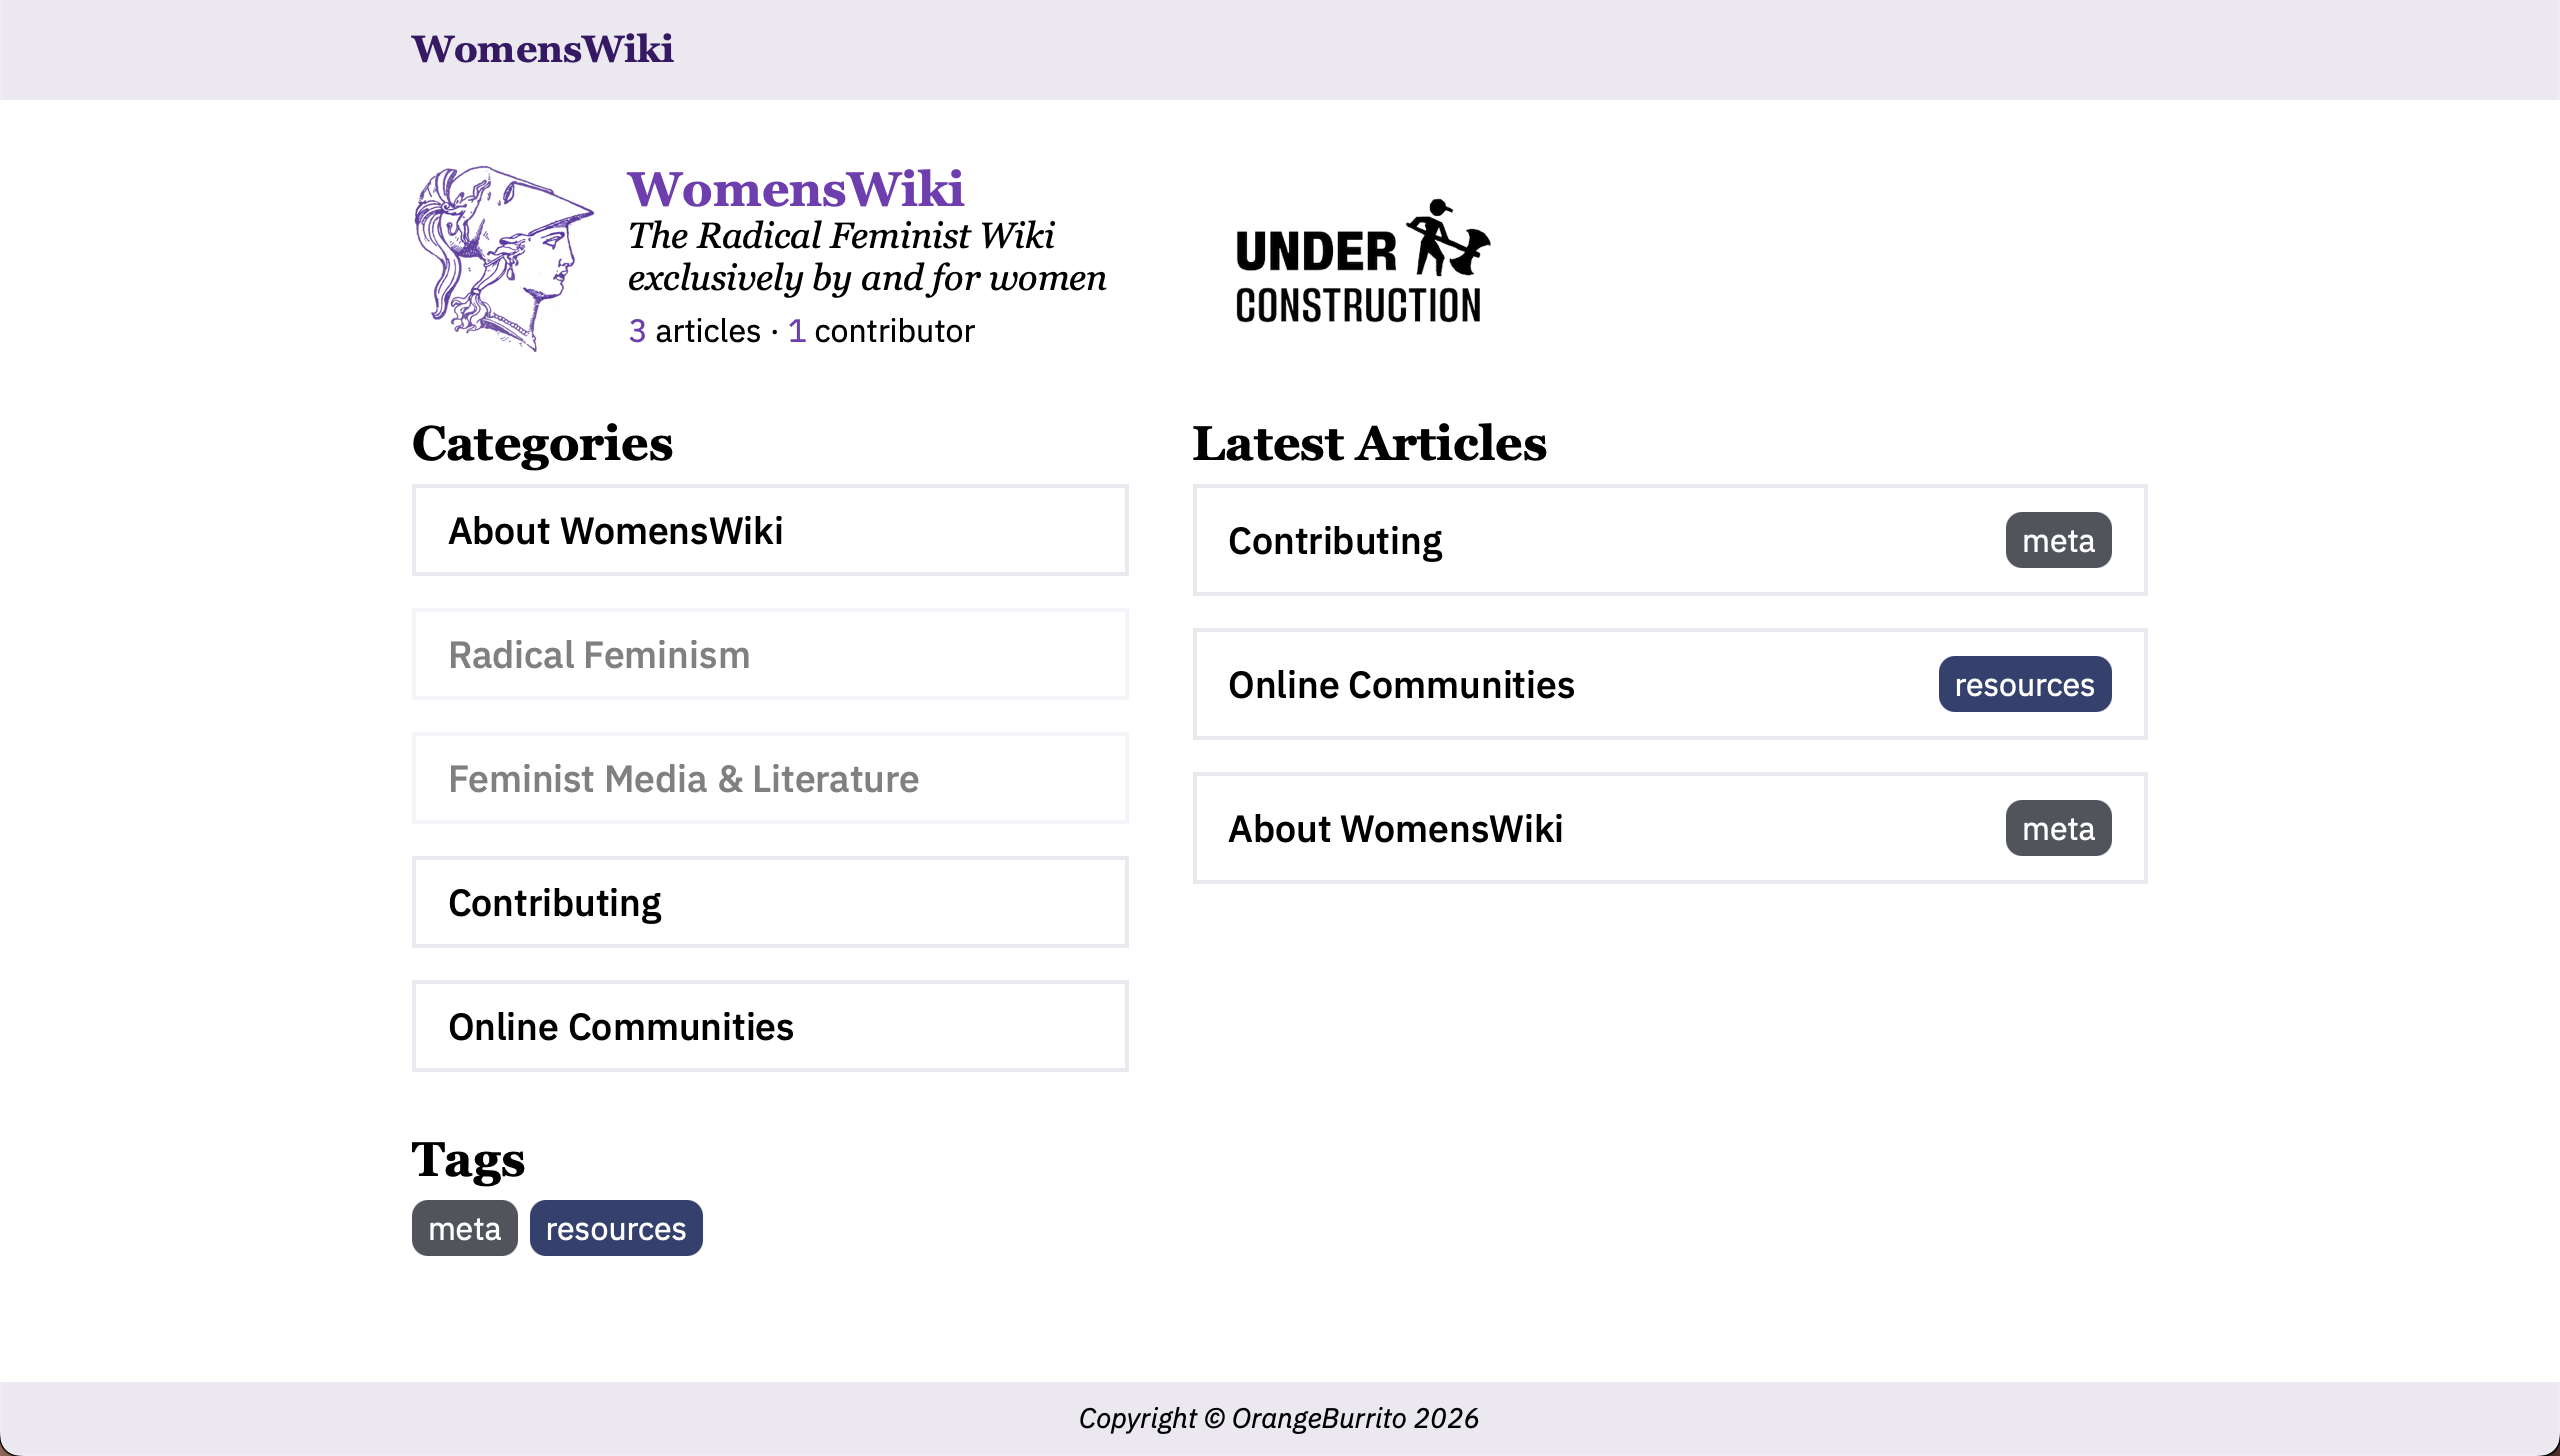
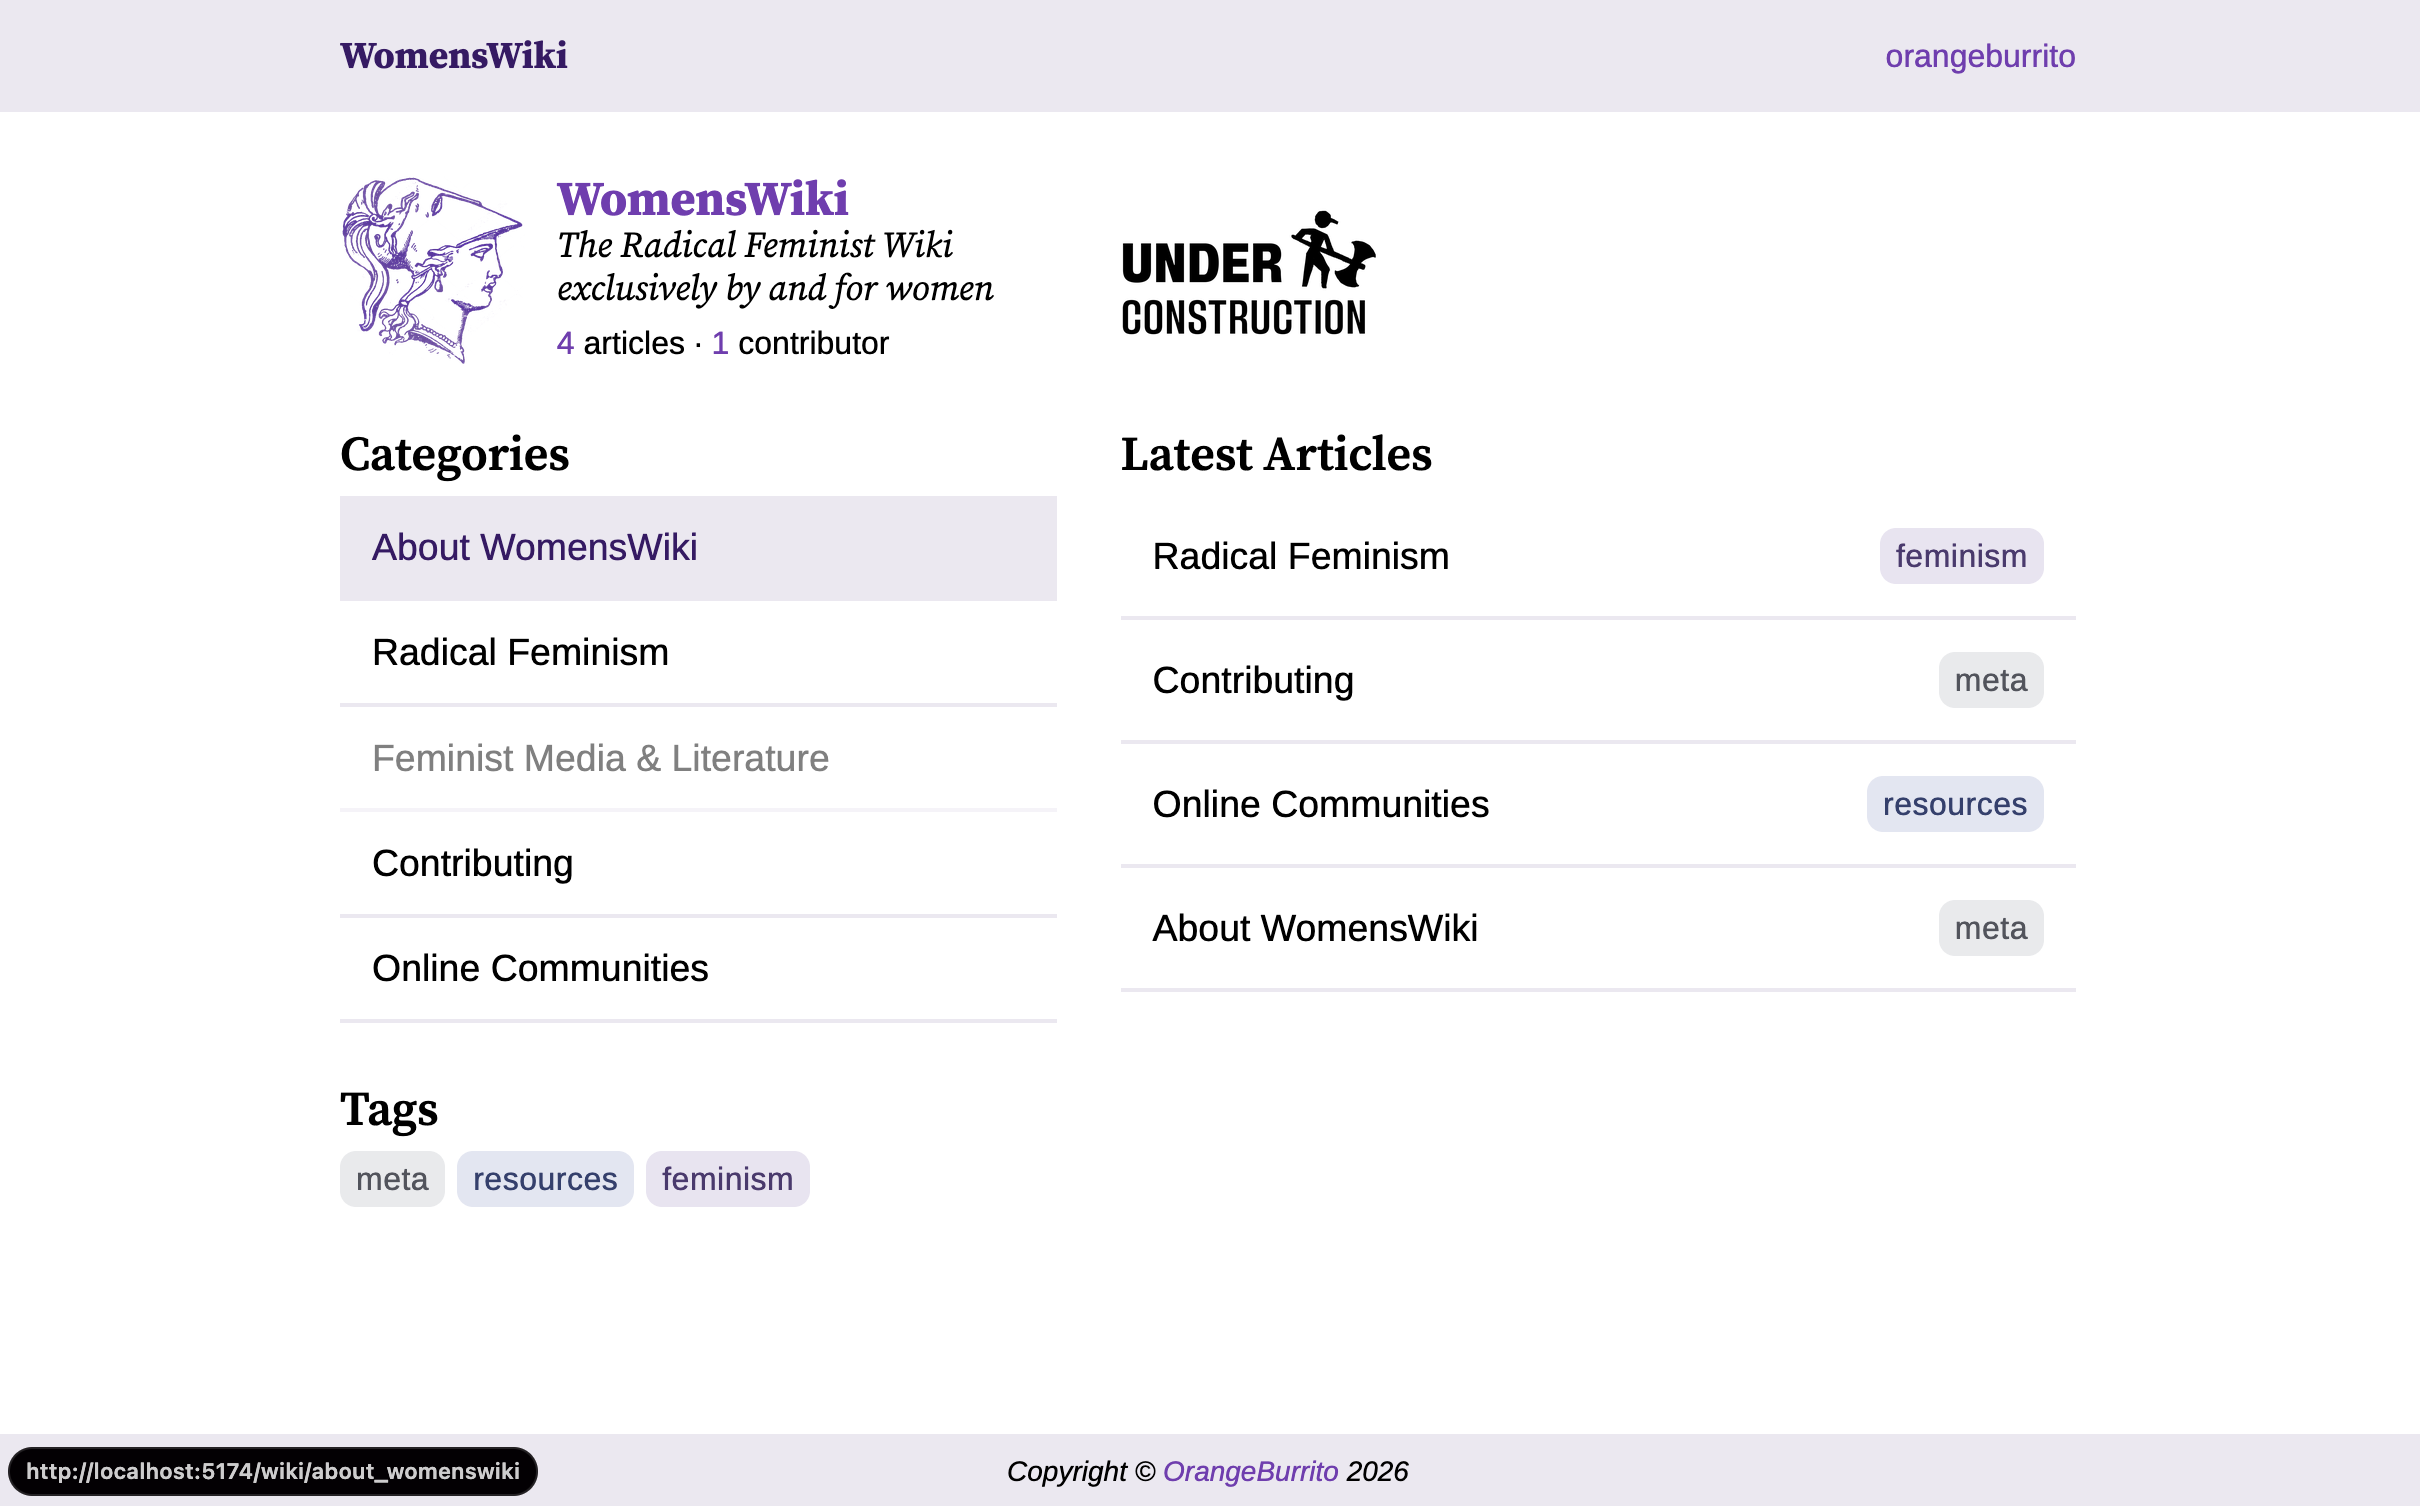
feat: add source code links to projects, update geo-redir links

diff --git a/src/components/composite/SiteMetadata.svelte b/src/components/composite/SiteMetadata.svelte
@@ -24,7 +24,7 @@
 
 <div class="row-1 flex end baseline"><h3 class="subtle right">Site Metadata</h3></div>
 <div class="data row-fill flex vertical end">
-    <div class="flex vertical end gap-xsmall">
+    <div class="flex vertical end gap-xxsmall">
     <p class="label">Last Updated</p>
     {#if loading}
         <p class="emphasis right">Loading...</p>
@@ -32,11 +32,11 @@
         <Date class="emphasis right" date={metadata.updatedAt} />
     {/if}
     </div>
-    <div class="flex vertical end gap-xsmall">
+    <div class="flex vertical end gap-xxsmall">
     <p class="label">Created At</p>
     <Date class="emphasis right" date="2024-12-14" />
     </div>
-    <div class="flex vertical end gap-xsmall">
+    <div class="flex vertical end gap-xxsmall">
     <p class="label">Copyright ©</p>
     <p class="emphasis right">OrangeBurrito 2026</p>
     </div>

diff --git a/src/components/composite/CurrentlyReading.svelte b/src/components/composite/CurrentlyReading.svelte
@@ -48,7 +48,7 @@
         <!-- <div class="percentage">
           <div class="bar" style="width: {book.percentage};">{book.percentage}</div>
         </div> -->
-        <div class="link grow flex vertical end-y gap-xsmall">
+        <div class="link grow flex vertical end-y gap-xxsmall">
           <Link
             href="https://app.thestorygraph.com/profile/orangeburrito"
             external={true}>Details</Link

diff --git a/src/components/composite/ProjectItem.svelte b/src/components/composite/ProjectItem.svelte
@@ -27,7 +27,7 @@
         <h4 class="title text-hover">{project.data.title}</h4>
     {/if}
     <div class="metadata flex vertical gap-none">
-        <div class="dates flex gap-xsmall">
+        <div class="dates flex gap-xxsmall">
             <Date date={project.data.startDate} length='short' />
             <p class="label">—</p>
             {#if project.data.endDate}

diff --git a/src/components/base/Link.svelte b/src/components/base/Link.svelte
@@ -11,7 +11,7 @@
   let { href, children, external = false }: Props = $props()
 </script>
 
-<a class="link flex gap-xsmall" href={href} target={external ? "_blank" : "_self"}>
+<a class="link flex gap-xxsmall" href={href} target={external ? "_blank" : "_self"}>
   {@render children()}
   {#if external}
     <Icon icon="external-link" size="small" />

diff --git a/src/styles/global.css b/src/styles/global.css
@@ -540,7 +540,8 @@ a.hover:hover {
     &.baseline { align-items: flex-end; }
     &.gap-large { gap: var(--space-300); }
     &.gap-small { gap: var(--space-150); }
-    &.gap-xsmall { gap: var(--space-050); }
+    &.gap-xsmall { gap: var(--space-100); }
+    &.gap-xxsmall { gap: var(--space-050); }
     &.gap-none { gap: 0; }
 
     .grow {

diff --git a/src/content.config.ts b/src/content.config.ts
@@ -30,7 +30,8 @@ const projects = defineCollection({
         startDate: z.date(),
         endDate: z.date().optional(),
         tags: z.array(z.string()).optional(),
-        color: z.string().optional()
+        color: z.string().optional(),
+        sourceCode: z.string().optional(),
     })
 })
 

diff --git a/src/data/projects/womenswiki.md b/src/data/projects/womenswiki.md
@@ -7,10 +7,11 @@ startDate: 2023-05-18
 description: "Full-stack .NET backend and SvelteKit frontend for Radical Feminist Wiki"
 shortDesc: "Radical Feminist Wiki"
 tags: ["dotnet", "svelte", "javascript", "docker" ]
+sourceCode: 'https://github.com/OrangeBurrito/womenswiki-server'
 ---
 
 ![Screenshot of womenswiki homepage](/images/womenswiki.png)
-*Work-in-progress homepage of WomensWiki*
+*In-development screenshot of WomensWiki's homepage*
 
 ## Elevator Pitch
-WomensWiki is my personal project.
+WomensWiki is my personal passion project. It is a hub or aggregation of radical feminist resources from across the internet, as well as a reference for those that are new to radical feminism or need a quick refresher.

diff --git a/src/data/projects/referrals.md b/src/data/projects/referrals.md
@@ -1,15 +1,15 @@
 ---
 title: 'Arajet Referrals'
-url: ''
+url: 'https://refer.arajet.com'
 coverImage: '/images/arajetreferrals.png'
 coverIcon: "/images/projects/referrals-icon.png"
 client: 'Arajet Airlines'
 clientUrl: 'https://arajet.com'
 contractor: 'Huagati Systems'
-contractorUrl: 'https://huagati.com/'
+contractorUrl: 'https://refer.huagati.com/'
 startDate: 2024-04-01
 endDate: 2024-07-05
-description: "Design and development of Arajet Airlines' unreleased User Referrals Program in Blazor Server"
+description: "Design and development of Arajet Airlines' User Referrals Program in Blazor Server"
 shortDesc: "User Referrals Program"
 tags: ["dotnet", "blazor", "javascript", "figma" ]
 color: "#08240D"

diff --git a/src/data/projects/thaihomecooking.md b/src/data/projects/thaihomecooking.md
@@ -12,6 +12,7 @@ description: "Redesign and imlementation of Thai Cooking course booking site as 
 shortDesc: "Thai Cooking Course Static Site"
 tags: ["svelte", "javascript", "figma" ]
 color: "#011b47"
+sourceCode: "https://github.com/OrangeBurrito/thaihomecooking"
 ---
 
 ![Screenshot of thaihomecooking homepage](/images/thaihomecooking.png)
